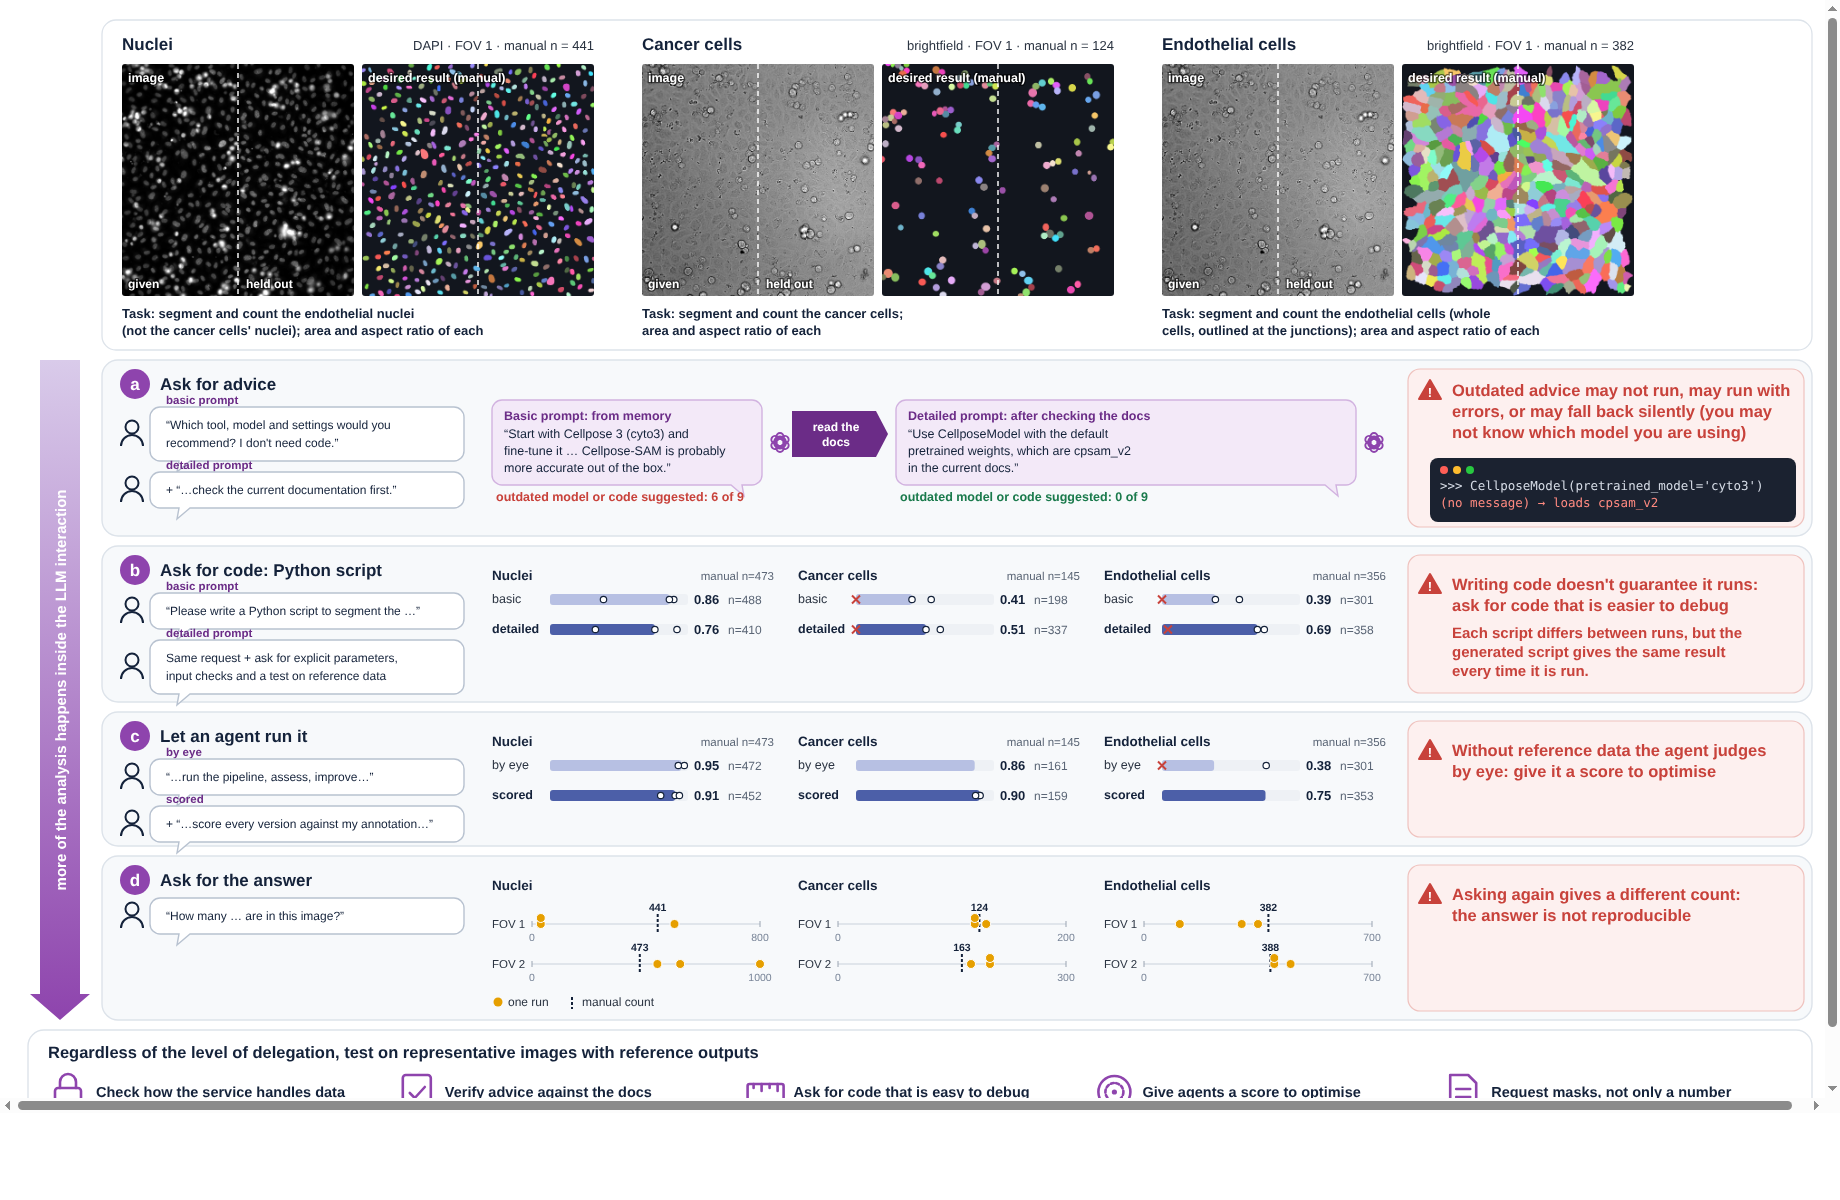
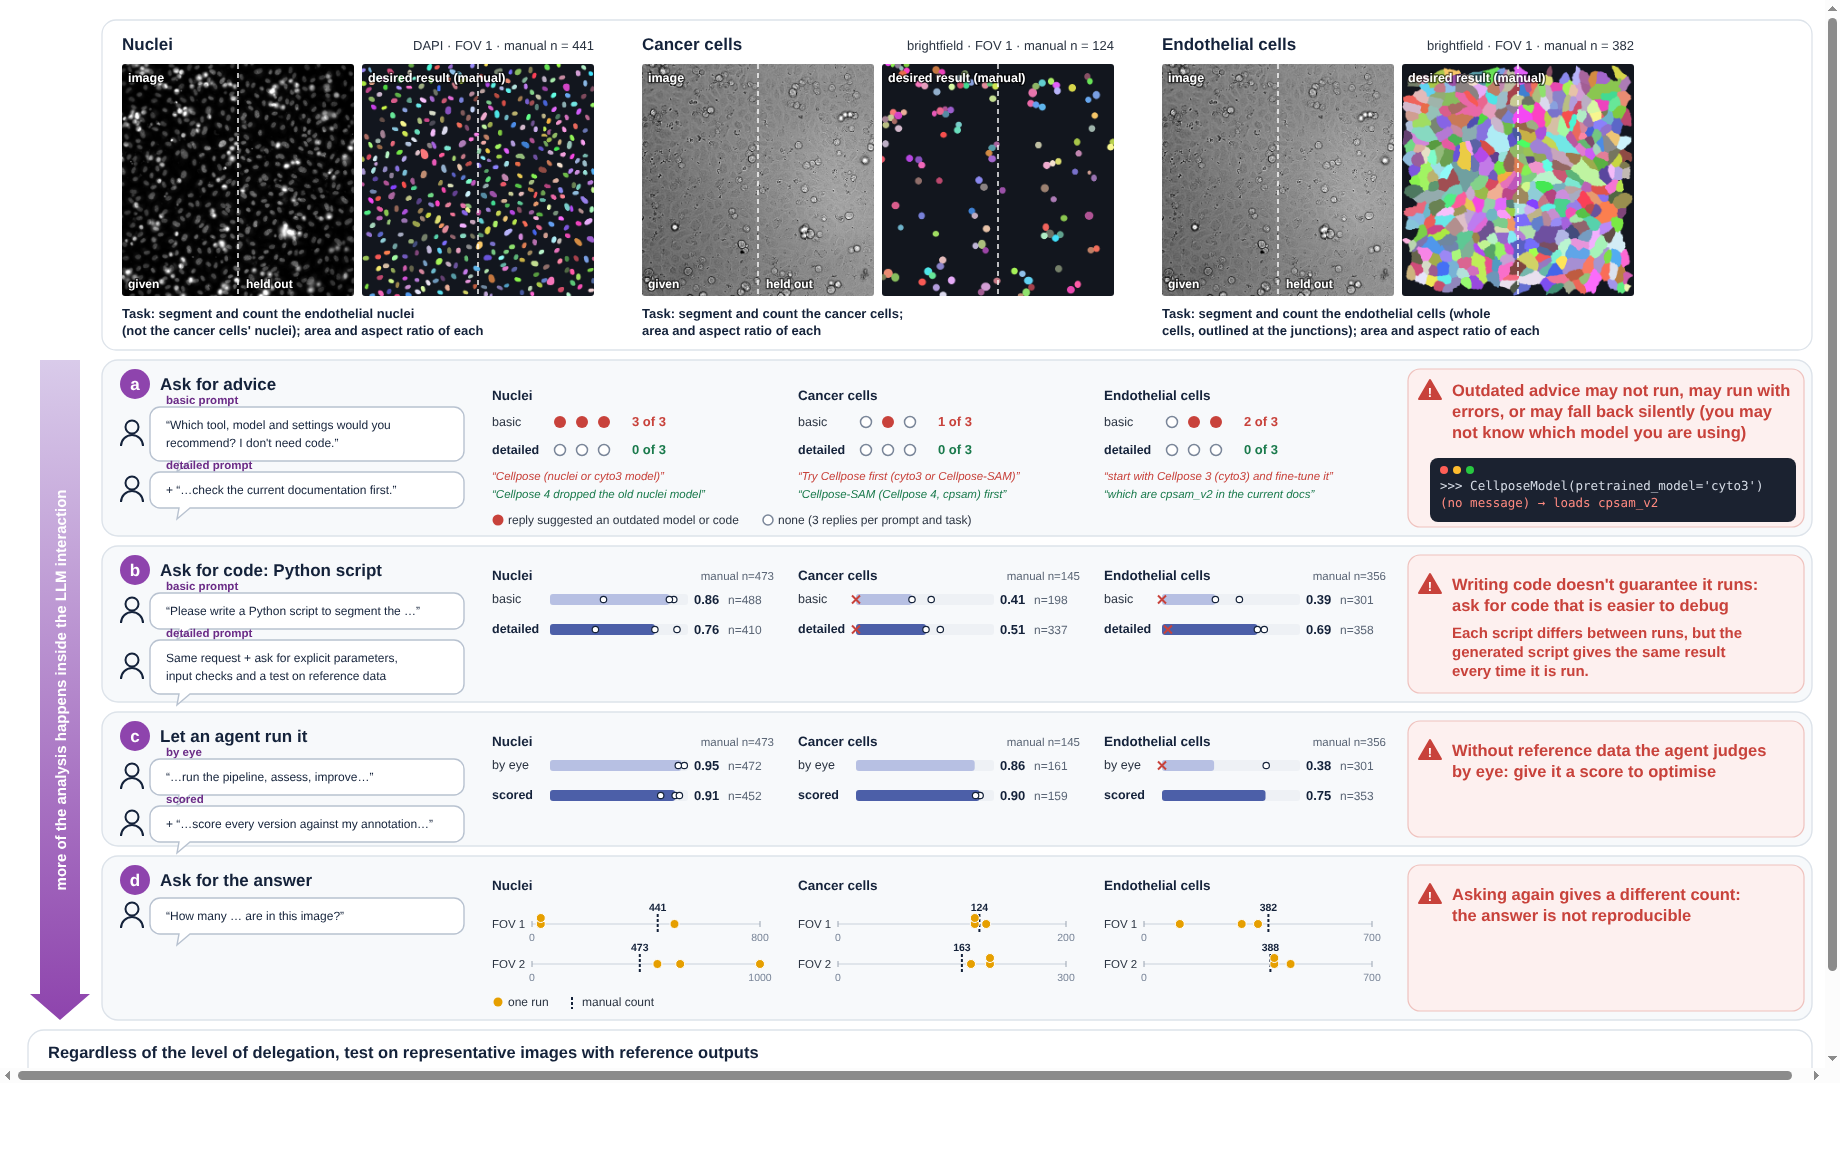
fig3: row a split per task (dots per reply, first-pass item check in v2/advice_outdated.csv with verbatim evidence)
Claude-Session: https://claude.ai/code/session_01PJNT3JDnSo79DR4Hd7XwkY

diff --git a/fig3/figure_v2/code/make_fig3_v2.py b/fig3/figure_v2/code/make_fig3_v2.py
@@ -801,14 +801,43 @@ def ask(key, items, y0=42):
 key = "a"
 ask(key, [("basic prompt", ["“Which tool, model and settings would you", "recommend? I don't need code.”"]),
           ("detailed prompt", ["+ “…check the current documentation first.”"])])
-y = ry[key] + 40
-WB = 300
-s, hA = reply(CX_SC, y, WB, ["“Start with Cellpose 3 (cyto3) and", "fine-tune it … Cellpose-SAM is probably", "more accurate out of the box.”"], 12.5, False, "Basic prompt: from memory"); add(s)
-add(t(CX_SC + 4, y + hA + 4, "outdated model or code suggested: 6 of 9", 12.5, "bold", NOC))
-add(change_pill(CX_SC + WB + 48, y + 34, ["read the", "docs"]))
-XD = CX_SC + WB + 104
-s, hB = reply(XD, y, CX_CAV - 30 - XD, ["“Use CellposeModel with the default", "pretrained weights, which are cpsam_v2", "in the current docs.”"], 12.5, False, "Detailed prompt: after checking the docs"); add(s)
-add(t(XD + 4, y + hB + 4, "outdated model or code suggested: 0 of 9", 12.5, "bold", OKT))
+ADV = {}                                               # first-pass item check (fig3/v2/advice_outdated.py)
+with open("../../v2/advice_outdated.csv", newline="") as _f:
+    for _r in csv.DictReader(_f):
+        ADV[_r["scenario_id"]] = _r
+SHOW_AS = {"advice_box1_endo_r1": ("which are cpsam_v2 in the current docs",)}
+EXAMPLE = {"nuclei": ("advice_simple_nuclei_r1", "advice_box1_nuclei_r2"), "cancer": ("advice_simple_cancer_r2", "advice_box1_cancer_r3"),
+           "endo": ("advice_simple_endo_r3", "advice_box1_endo_r1")}
+
+
+def clean(txt):
+    return txt.replace("**", "").replace("`", "").strip()
+
+
+for i, (task, name, _) in enumerate(TASKS):
+    x = CX_SC + i * (GW + GG)
+    y0 = ry[key] + 40
+    add(t(x, y0, name, 13.5, "bold", INK))
+    for j, (cond, lbl, col) in enumerate((("simple", "basic", NOC), ("box1", "detailed", OKT))):
+        yy = y0 + 22 + j * 28
+        runs = sorted((r for r in ADV.values() if r["task"] == task and r["condition"] == cond), key=lambda r: r["scenario_id"])
+        add(t(x, yy + 4, lbl, 12.5, "bold" if j else "normal", INK if j else BODY))
+        for k, r in enumerate(runs):                    # one dot per reply: filled = outdated model or code suggested
+            cx = x + 68 + k * 22
+            if r["outdated_suggested"] == "1":
+                add(f'<circle cx="{cx}" cy="{yy}" r="6" fill="{NOC}"/>')
+            else:
+                add(f'<circle cx="{cx}" cy="{yy}" r="5.5" fill="#ffffff" stroke="#7a8699" stroke-width="1.5"/>')
+        n_out = sum(r["outdated_suggested"] == "1" for r in runs)
+        add(t(x + 68 + 3 * 22 + 6, yy + 4, f"{n_out} of {len(runs)}", 13, "bold", col))
+    for j, (sid, col) in enumerate(zip(EXAMPLE[task], (NOC, OKT))):
+        shown = clean(ADV[sid]["evidence"])
+        for cut in SHOW_AS.get(sid, ()):                # a verbatim part of the evidence, when the whole is too long
+            assert cut in shown
+            shown = cut
+        add(t(x, y0 + 80 + j * 18, "“" + shown + "”", 11.5, "normal", col, style="italic"))
+add(f'<circle cx="{CX_SC+6}" cy="{ry[key]+RH[key]-16}" r="5.5" fill="{NOC}"/>' + t(CX_SC + 16, ry[key] + RH[key] - 12, "reply suggested an outdated model or code", 12, fill=BODY)
+    + f'<circle cx="{CX_SC+276}" cy="{ry[key]+RH[key]-16}" r="5" fill="#ffffff" stroke="#7a8699" stroke-width="1.5"/>' + t(CX_SC + 286, ry[key] + RH[key] - 12, "none (3 replies per prompt and task)", 12, fill=BODY))
 add(cav(key, ["Outdated advice may not run, may run with", "errors, or may fall back silently (you may", "not know which model you are using)"], -8))
 s, _ = terminal(CX_CAV + 14, ry[key] + 98, W_CAV - 16, [(">>> CellposeModel(pretrained_model='cyto3')", "#d5dbe5"),
                                                        ("(no message)  → loads cpsam_v2", "#ff8a80")], 12.5); add(s)

diff --git a/fig3/v2/advice_outdated.py b/fig3/v2/advice_outdated.py
@@ -1,0 +1,54 @@
+"""Row A, first-pass item check by the operator (draft for the authors' review, PROTOCOL_V2 section 5): did the reply suggest
+an outdated Cellpose model or code (removed in Cellpose 4: `cyto3`, `nuclei`, `models.Cellpose`, the "cellpose<4" pin)?
+
+The classification below was made by reading each reply; the evidence is a verbatim excerpt (the script checks it is in the
+reply). Writes fig3/v2/advice_outdated.csv. Usage: PYTHONPATH=. python fig3/v2/advice_outdated.py
+"""
+import csv
+import json
+
+from common.paths import REPO_ROOT
+
+RUNS = REPO_ROOT / "fig3" / "v2" / "runs"
+OUT = REPO_ROOT / "fig3" / "v2" / "advice_outdated.csv"
+# scenario -> (outdated suggested 1/0, verbatim evidence from the reply)
+ITEMS = {
+    "advice_simple_cancer_r1": (0, "I'd use the Cellpose-SAM model as the starting point"),
+    "advice_simple_cancer_r2": (1, "Try Cellpose first (cyto3 or Cellpose-SAM)"),
+    "advice_simple_cancer_r3": (0, "Fine-tune Cellpose (Cellpose-SAM) on a small set"),
+    "advice_simple_endo_r1": (0, "Use **Cellpose (the Cellpose-SAM / v4 generalist)"),
+    "advice_simple_endo_r2": (1, "Fine-tune Cellpose (the CPSAM or cyto3 model)"),
+    "advice_simple_endo_r3": (1, "start with Cellpose 3 (`cyto3`) and fine-tune it"),
+    "advice_simple_nuclei_r1": (1, "**Cellpose** (`nuclei` or `cyto3` model)"),
+    "advice_simple_nuclei_r2": (1, "use Cellpose 3.x (`pip install \"cellpose<4\"`), whose `nuclei` model is much lighter"),
+    "advice_simple_nuclei_r3": (1, "(nuclei model, or the newer generalist model)"),
+    "advice_box1_cancer_r1": (0, "I checked the current Cellpose docs"),
+    "advice_box1_cancer_r2": (0, "I haven't confirmed whether cpsam needs a diameter at all"),
+    "advice_box1_cancer_r3": (0, "**Cellpose-SAM (Cellpose 4, `cpsam`) first"),
+    "advice_box1_endo_r1": (0, "the default pretrained weights, which are `cpsam_v2` in the current docs"),
+    "advice_box1_endo_r2": (0, "Cellpose 4 (Cellpose-SAM, `cpsam`)"),
+    "advice_box1_endo_r3": (0, None),
+    "advice_box1_nuclei_r1": (0, "Cellpose 4 uses a single model, CPSAM"),
+    "advice_box1_nuclei_r2": (0, "Cellpose 4 dropped the old `nuclei` model"),
+    "advice_box1_nuclei_r3": (0, "The page I fetched doesn't mention the older `nuclei` model, so I can't confirm it still exists"),
+}
+
+
+def main() -> None:
+    rows = []
+    for sid, (outdated, evidence) in sorted(ITEMS.items()):
+        reply = " ".join(t.get("reply") or "" for t in json.loads((RUNS / sid / "turns.json").read_text()))
+        meta = json.loads((RUNS / sid / "meta.json").read_text())
+        if evidence is not None and evidence not in reply:
+            raise ValueError(f"{sid}: evidence not found verbatim: {evidence!r}")
+        rows.append({"scenario_id": sid, "task": meta["task"], "condition": meta["condition"],
+                     "outdated_suggested": outdated, "evidence": evidence or "", "web_used": int(bool(meta["web_used"]))})
+    with OUT.open("w", newline="") as handle:
+        w = csv.DictWriter(handle, fieldnames=list(rows[0]), lineterminator="\n")
+        w.writeheader()
+        w.writerows(rows)
+    print(len(rows), "replies ->", OUT.relative_to(REPO_ROOT))
+
+
+if __name__ == "__main__":
+    main()
